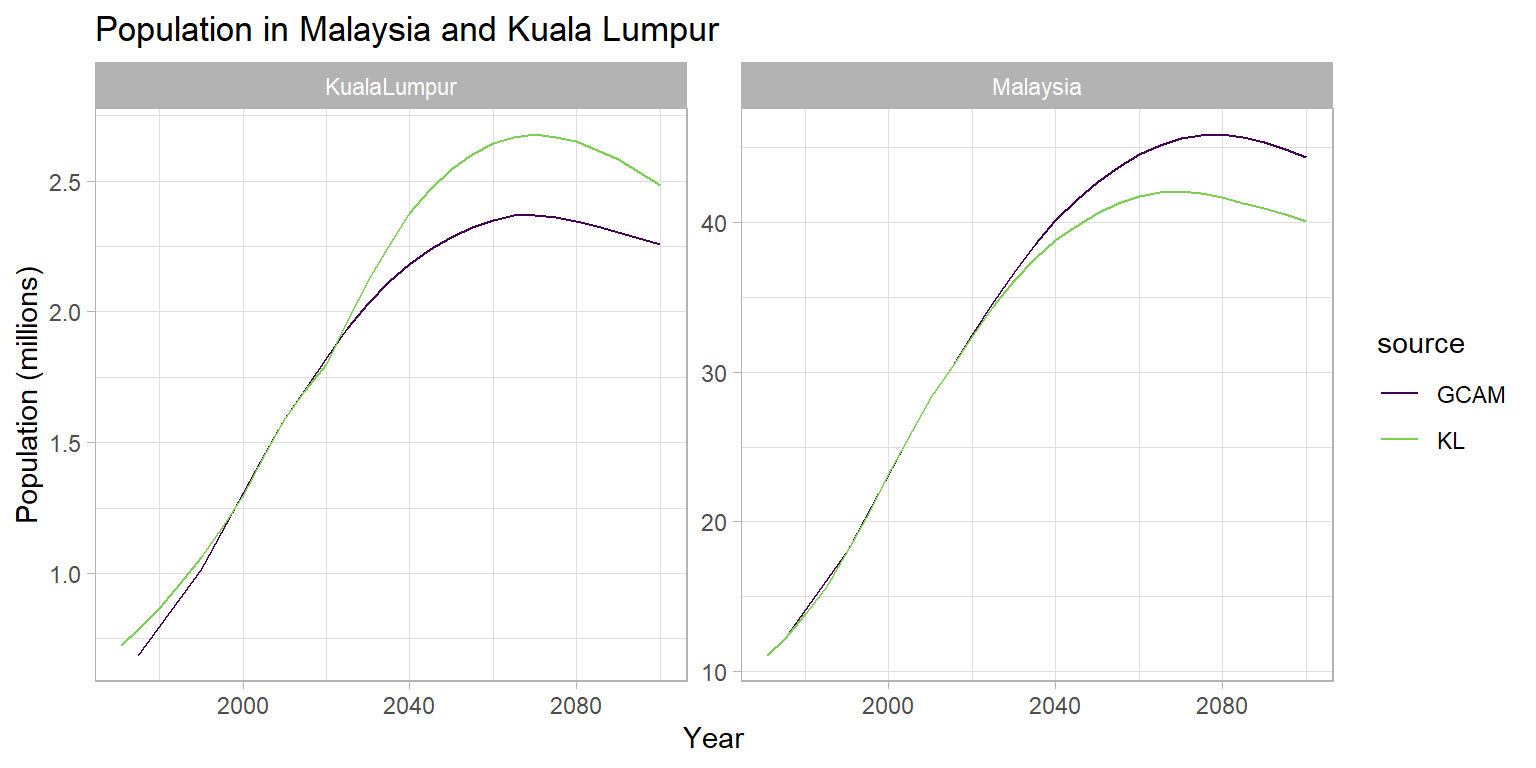
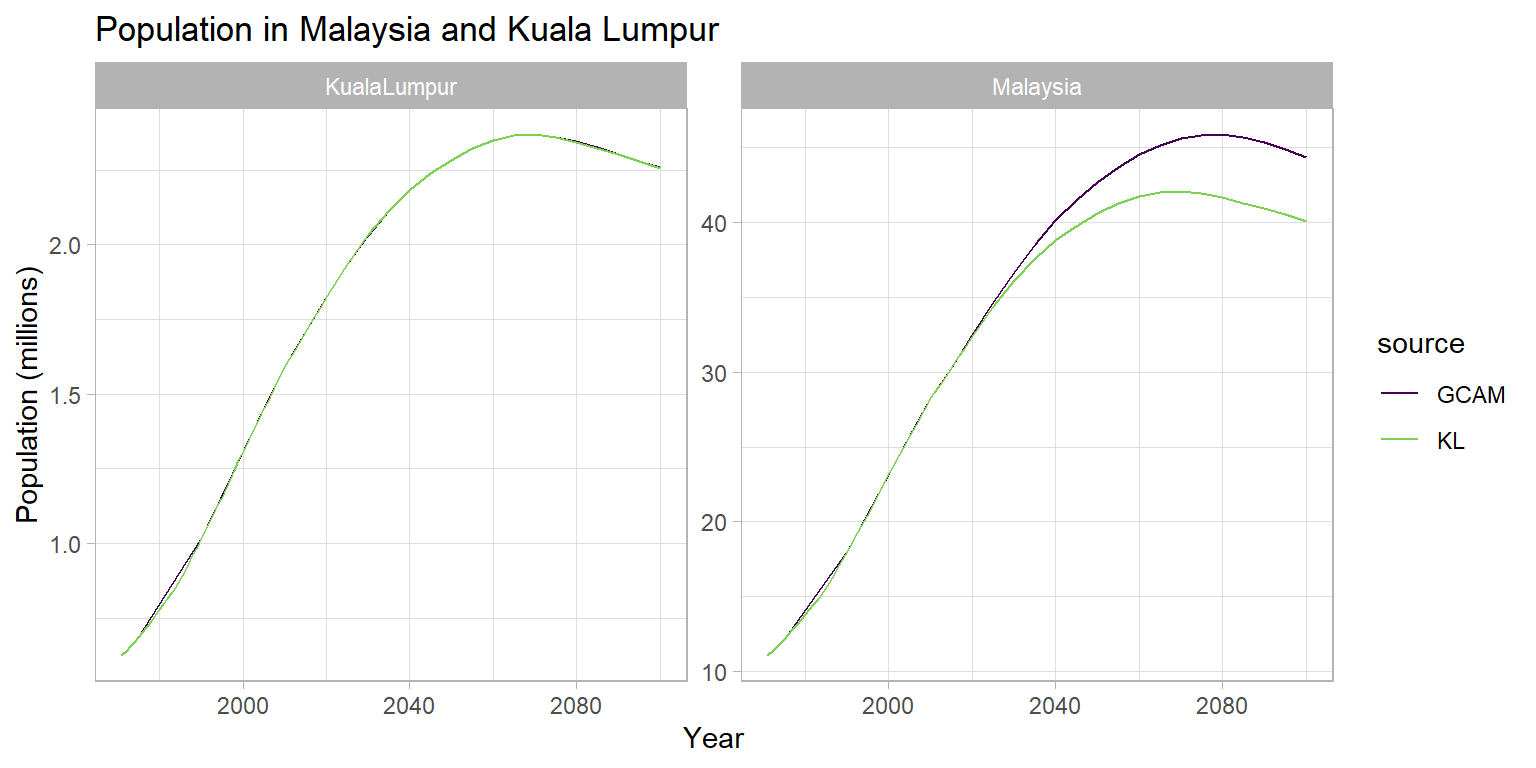
Update population data and figure

diff --git a/webpage/_site/malaysia.html b/webpage/_site/malaysia.html
@@ -613,10 +613,10 @@ td, th {
 <th>
 Variable
 </th>
-<th style="width:40%">
+<th style="width:50%">
 Assumptions
 </th>
-<th style="width:50%">
+<th style="width:40%">
 Data Sources
 </th>
 </tr>
@@ -625,10 +625,10 @@ Data Sources
 Population
 </td>
 <td>
-<span>- Malaysia population for the medium variant projection</span><br/> <span>- Growth rates for Bangkok were used for Kuala Lumpur</span>
+<span>- Malaysia population used the medium variant projection and historical data from the UN</span><br/> <span>- KL census data gives a value for 2010. All other values were extrapolated and calculated using the growth rates for Malaysia in total</span>
 </td>
 <td>
-<span>- Malaysia: <a href="https://population.un.org/wpp/">United Nations</a></span><br/> <span>- Kuala Lumpur 1971-2017: <a href="">United Nations</a></span><br/> <span>- Kuala Lumpur 2017-2021: <a href="https://www.dosm.gov.my/v1/index.php?r=column/cone&amp;menu_id=bjRlZXVGdnBueDJKY1BPWEFPRlhIdz09">Department of Statistics Malaysia</a></span>
+<span>- Malaysia: <a href="https://population.un.org/wpp/">United Nations</a></span><br/> <span>- Kuala Lumpur 2010: <a href="http://data.un.org/Data.aspx?q=kuala+lumpur&amp;d=POP&amp;f=tableCode%3a240%3bareaCode%3a0%3bsexCode%3a0%3bvarCode3%3a028690%3bvarCode4%3a000002">United Nations</a></span><br/>
 </td>
 </tr>
 <tr>
@@ -648,7 +648,7 @@ Pre-2011 and post-2020 GDP growth rates are consistent between all regions
 <h3 number="9.1.1"><span class="header-section-number">9.1.1</span> Population</h3>
 <div id="historical-trends-and-future-projections" class="section level4 unnumbered">
 <h4 class="unnumbered">Historical Trends and Future Projections</h4>
-<p>The plot below shows historical and future projected populations in Malaysia and Kuala Lumpur comparing the data sources above to the GCAM reference scenario. As mentioned above, population growth rates in Kuala Lumpur were assumed to be on par with Bangkok, Thailand. Please reference the <a href=thailand.html#9_Inputs> data sources for Thailand </a> for more details.</p>
+<p>The plot below shows historical and future projected populations in Malaysia and Kuala Lumpur comparing the data sources above to the GCAM reference scenario. As mentioned above, population growth rates in Kuala Lumpur were assumed to be on par with those of the entire country.</p>
 <div class="figure">
 <img src="malaysia_files/figure-html/pop-plot-1.png" alt="Figure 9.1.1.1. **Historical and future projected population in Malaysia and Kuala Lumpur**" width="768" />
 <p class="caption">
